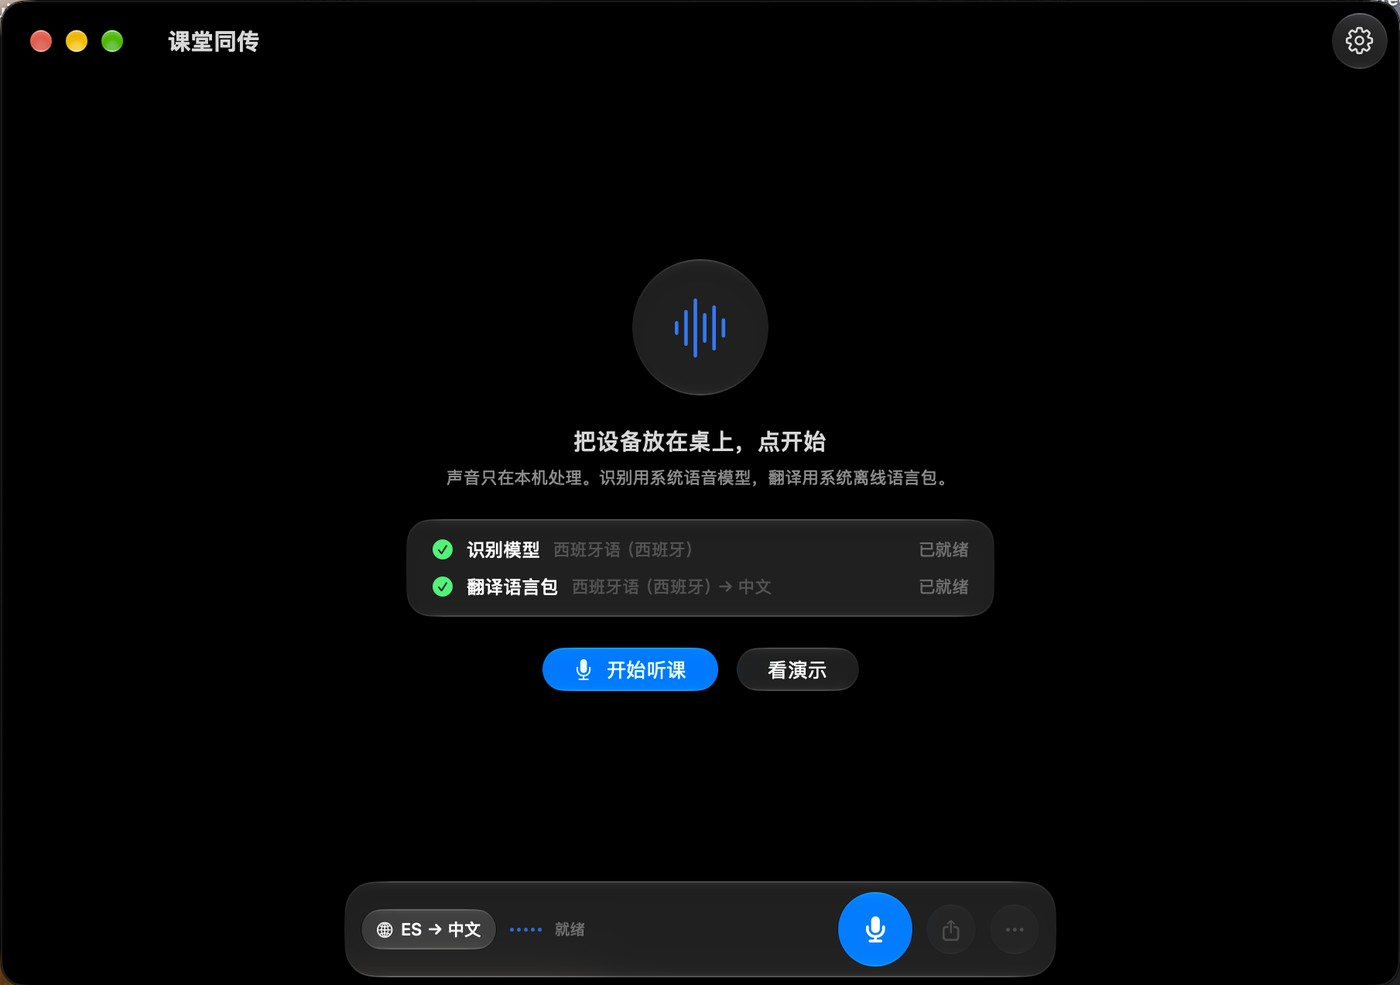
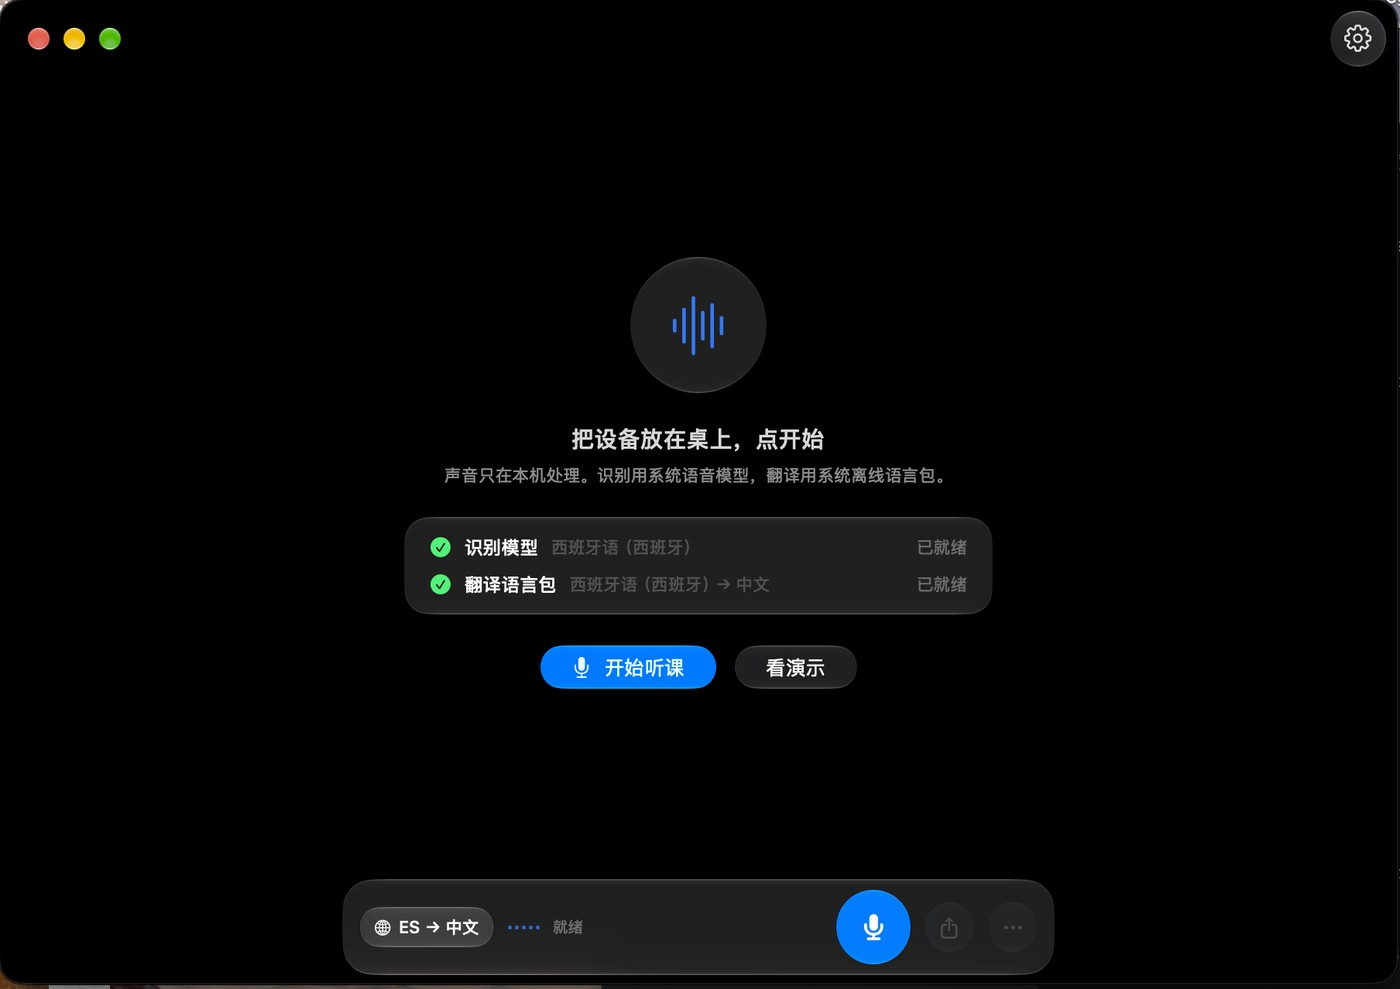
feat: 隐藏窗口标题文字
- navigationTitle 置空，标题栏只剩红绿灯和设置按钮
- 更新截图，版本 1.3.2

diff --git a/Transclase/UI/RootView.swift b/Transclase/UI/RootView.swift
@@ -28,7 +28,7 @@ struct RootView: View {
                     }
                 }
             }
-            .navigationTitle("课堂同传")
+            .navigationTitle("")
             .toolbarBackground(.hidden, for: .windowToolbar)
             .toolbar {
                 ToolbarItem(placement: .primaryAction) {
